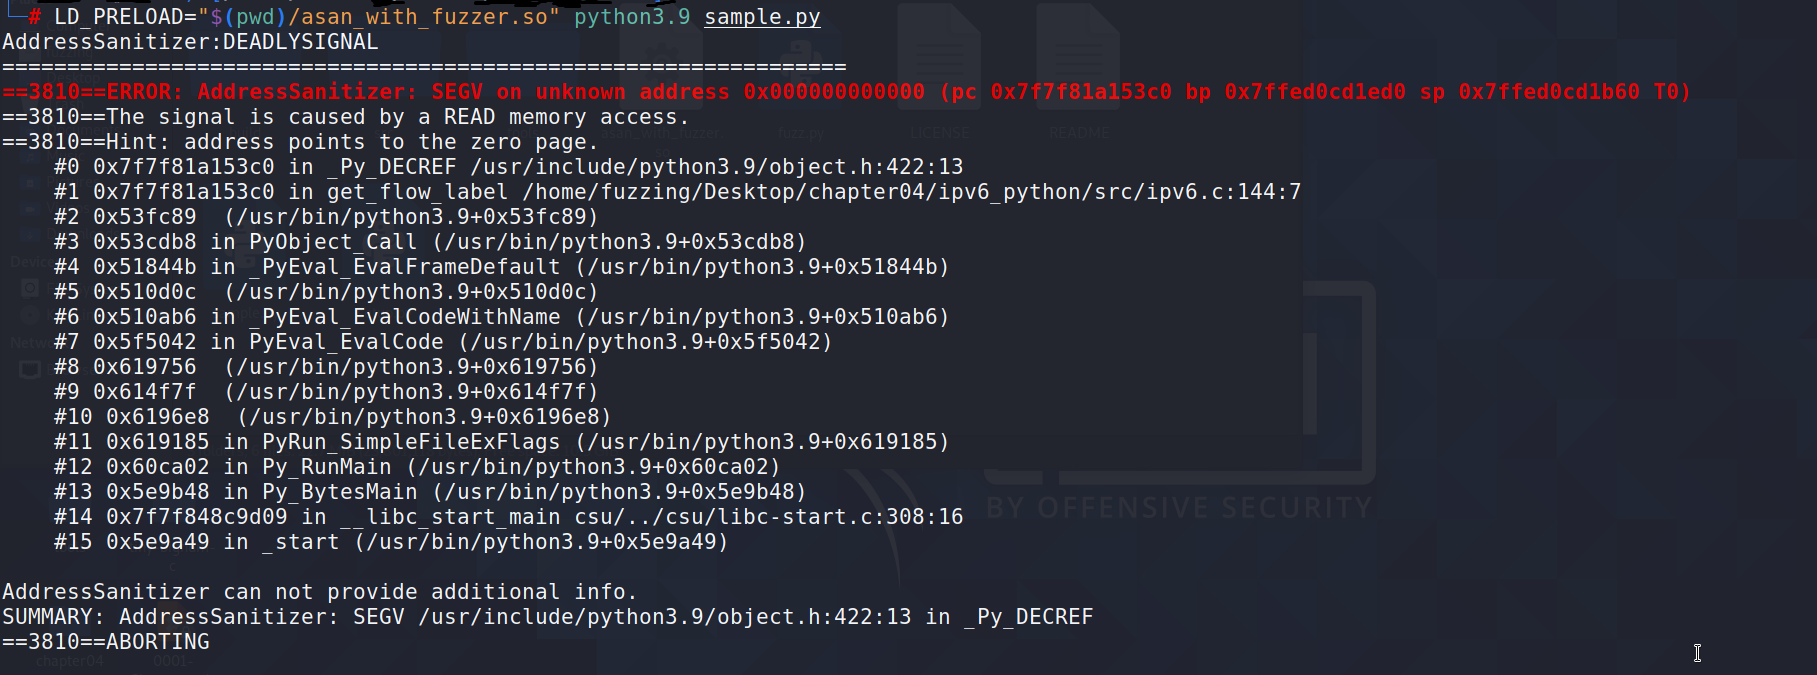
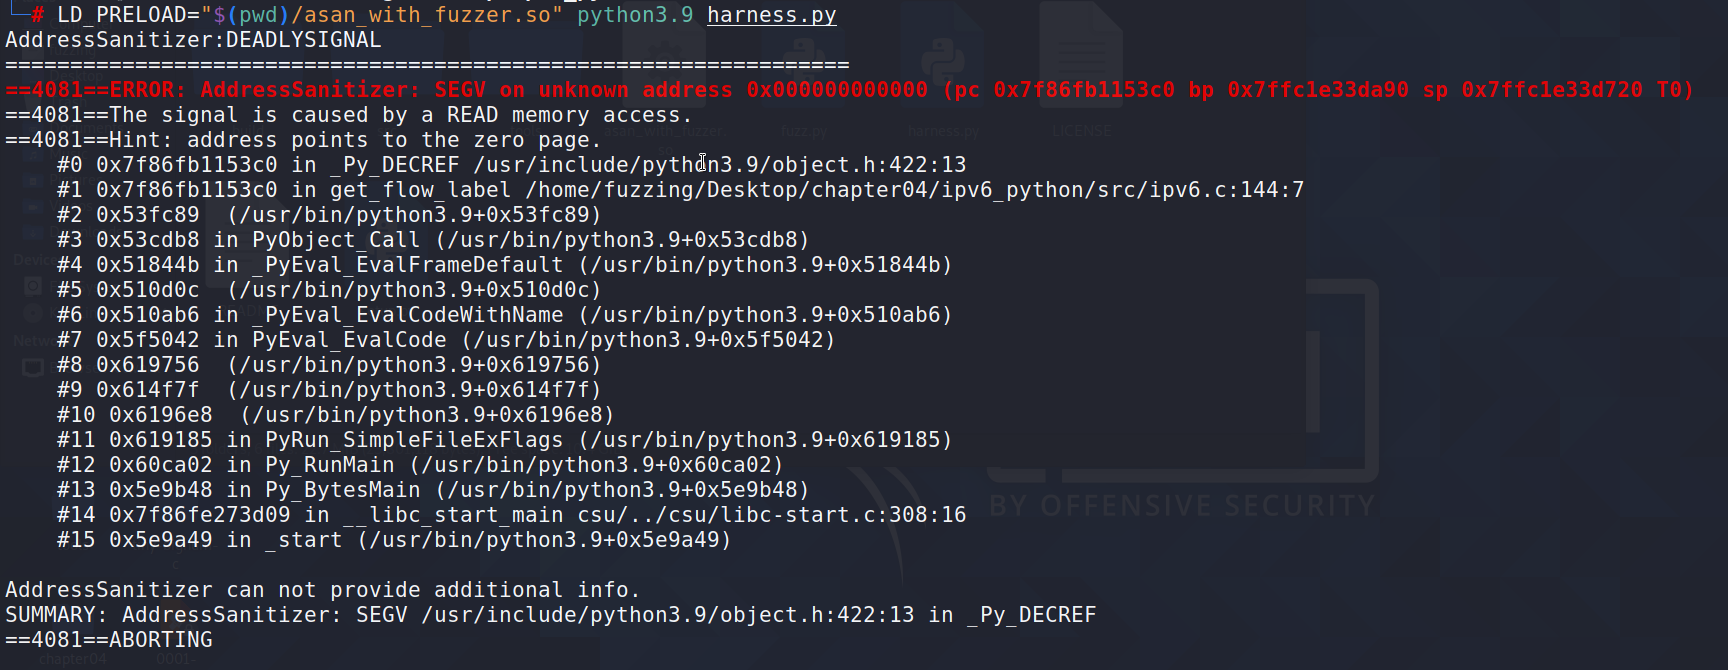
changed image

Changed region(s): [[0.0, 0.0, 1.0, 0.8358], [0.0, 0.8657, 0.625, 0.9851]]

diff --git a/README.md b/README.md
@@ -86,7 +86,7 @@ sock.sendto(data,sockaddr)
 4- run `harness.py ` 
 
 ```bash 
-# LD_PRELOAD="$(pwd)/asan_with_fuzzer.so" python3.9 harness.py                                                                               1 ⨯
+$ LD_PRELOAD="$(pwd)/asan_with_fuzzer.so" python3.9 harness.py                                                                               1 ⨯
 AddressSanitizer:DEADLYSIGNAL
 =================================================================
 ==3810==ERROR: AddressSanitizer: SEGV on unknown address 0x000000000000 (pc 0x7f7f81a153c0 bp 0x7ffed0cd1ed0 sp 0x7ffed0cd1b60 T0)
@@ -116,5 +116,7 @@ SUMMARY: AddressSanitizer: SEGV /usr/include/python3.9/object.h:422:13 in _Py_DE
 ```
 
 Now we see discover `Null pointer dereference` bug,
+
+![Crashed](https://github.com/raminfp/sanitizers_python_native_module/blob/main/img/ipv6_sanitize.png)
 
 This bug Fixed - https://github.com/nasa/ipv6_python/commit/bc02ad0cc807437a9f178486c4584568b88055ff
